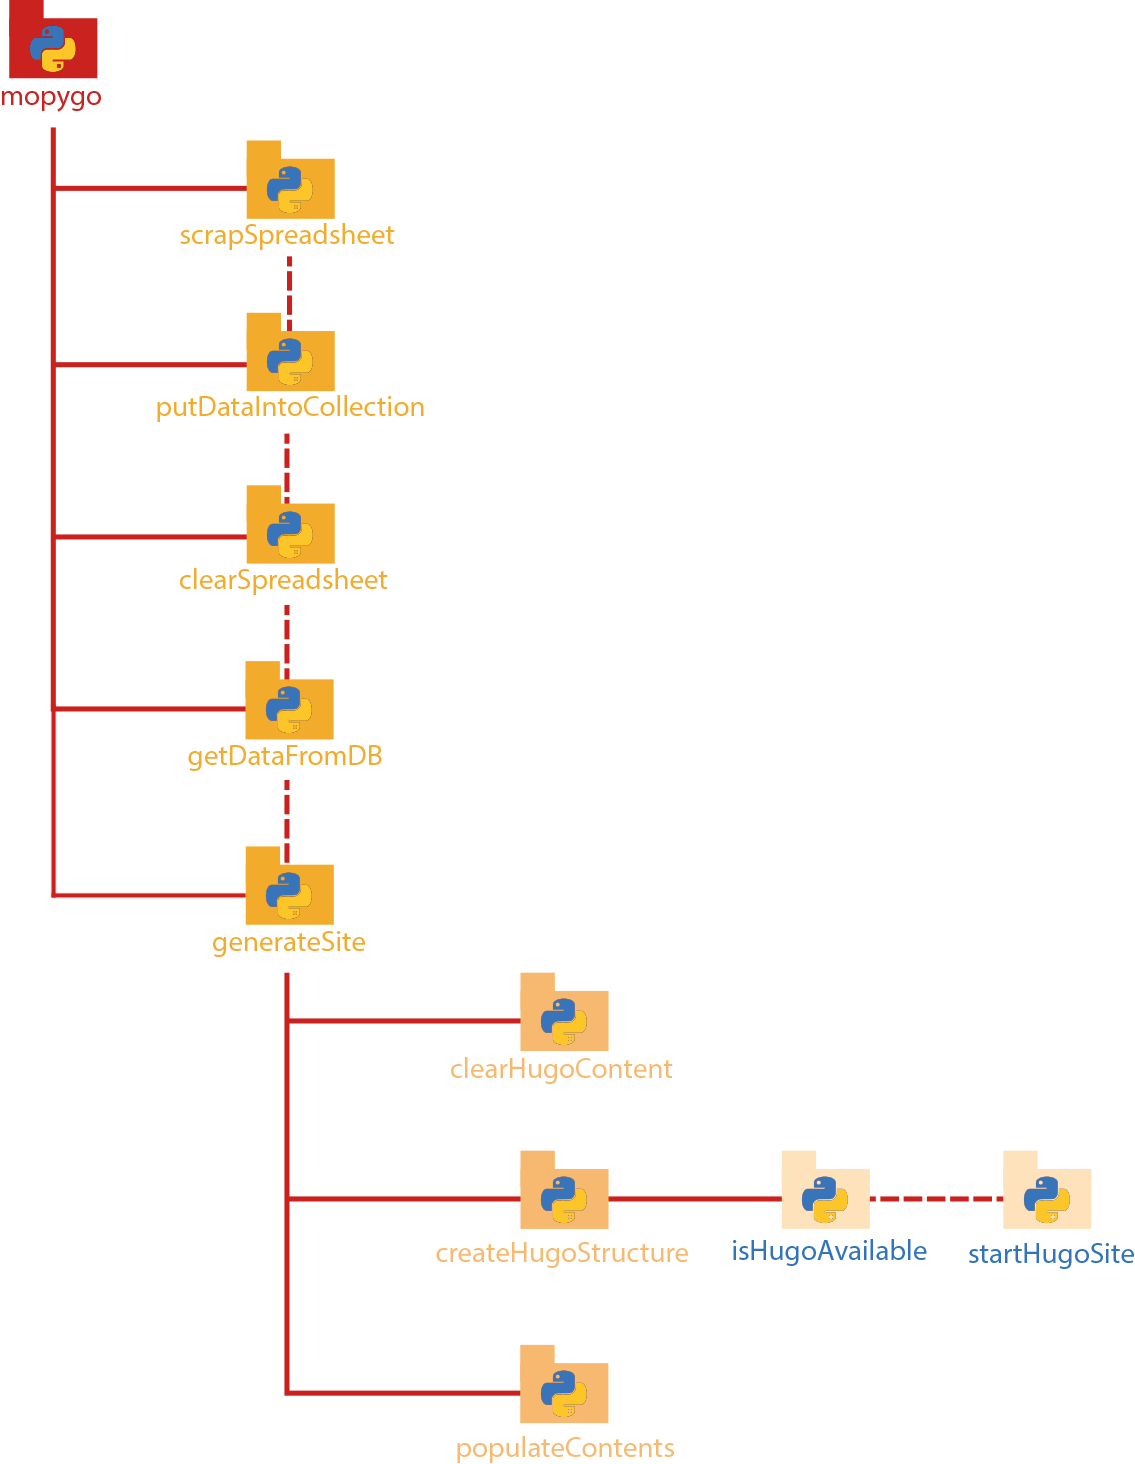
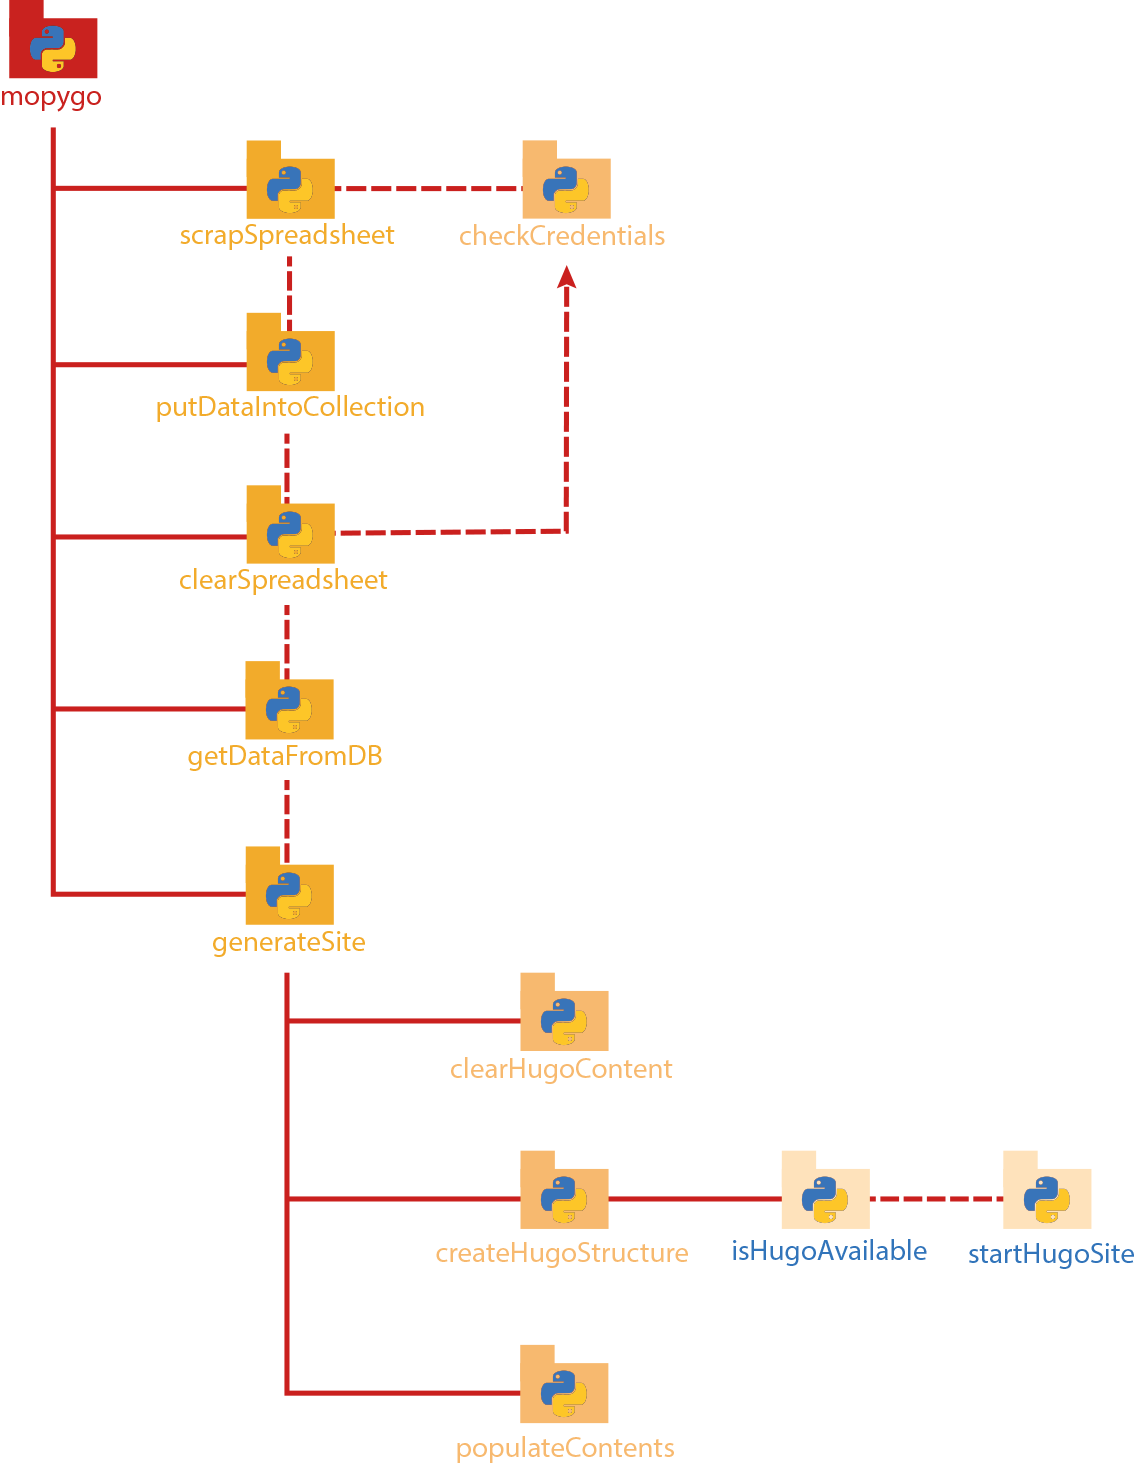
[:memo:] Readme informacion del proyecto

Changed region(s): [[0.3084, 0.0922, 0.5859, 0.3689], [0.0308, 0.584, 0.2159, 0.6148], [0.3084, 0.3381, 0.3392, 0.3689]]

diff --git a/docs/informacionProyecto.md b/docs/informacionProyecto.md
@@ -2,7 +2,30 @@
 ![](assets/logoMopygo.png)
 
 # Índice
-<!-- Poner índice -->
+- Introducción
+- Metodología
+- Analisis
+  - Primer diagrama general
+  - Posibles tecnologías
+- Diseño
+  - Diagrama de componenetes
+  - Esquema BBDD
+  - Futuras pruebas
+- Implementación
+  - Tecnologias utilizadas
+  - Herramientas utilizadas
+  - BackEnd 
+    - CRUD
+  - FrondEnd
+- Pruebas
+  - TDD
+  - CRUD
+- Comparación temporal 
+- Dificultades
+- Futuras mejoras
+- Bibliografía
+
+
 # Introducción
 
 En este proyecto tendremos que actualizar una web de una empresa de menus de restaurantes de lujo. La página web contine listas de cartas de restaurentes (ítems) que están en stock, en las cuales estas se clasifican en diferentes estilo de cocina.
@@ -19,7 +42,7 @@ Requisitos:
 - Aplicar el método SOLID.
 - Documentar el manual técnico que descrbe la arquitectura de la aplicación. 
 
-### Metodología
+# Metodología
 
 Desarrollo iterativo y creciente (o incremental) es un proceso de desarrollo de software creado en respuesta a las debilidades del modelo tradicional de cascada.
 
@@ -54,28 +77,54 @@ Esta metodología está formada por 5 etapas que son:
 ![](assets/principios_Metodologia_Scrum.png)
 
 Para finalizar podemos decir que Scrum es una metodología ágil que hace énfasis en el trabajo en equipo donde la claridad de los objetivos es crucial para avanzar hacia una versión cada vez mejor. Desde el punto de vista humano, favorece la motivación, la creatividad y el compromiso del equipo de trabajo. La claridad de los objetivos de cada una de las tareas programadas, así como el registro diario de las novedades, son factores que generan propuestas de avance hacia una versión mejorada. Estos factores, por supuesto, se reflejan positivamente en los niveles de producción de la empresa. Sin embargo el scrum no es muy efectivo si se hacen con grupos muy ampliados ya que se puede ir de las manos y tardar más de lo necesario. A eso, también, hay que añadirle que se tiene que trabajar con metas por días o semanales o mensuales y por etapas para poder llegar a los plazos y eso se necesita mucha organización. Asimismo es importante que las personas que hagan esta metodología tengan un gran nivel de cualificación para poder realizarla correctamente. En definitiva, el scrum si se hace bien es muy efectivo pero requiere un alto nivel de implicación.
+# Analisis
 
-### Analisis
-<!-- - Partes interesadas
-- Requisitos funcionales
-- Requisitos no funcionales -> RnF_XX
-- Diagnostico de casos de uso (UML) -->
-- Posibles tecnoloías 
-- Elección de tecnologías -> Matriz Requisitos/Tecnologías
+## Primer diagrama general
 
-### Diseño
-<!-- - Mapa conceptual proyecto -->
+Partimos de la base en la que hay un servidor. En ella esta constituida por una capa de datos, que en nuestro caso hemos usado el servicio de Mongo Atlas, la cual tuvimos que poblar con datos de ejemplo. Dentro del mismo servidor con ayuda de un script de Python nos conectamos a la base de datos con la libreria _PyMongo_. 
+
+Une vez sacado los datos entramos en la capa de negocio, la que encontramos otro script de Python que procesará los datos y escribirá archivos Markdown. 
+
+AL finalizar la escritura de los archivos Markdown, Hugo consumirá esos archivos para generar el sitio web. 
+
+Finalmente entramos en el entorno cliente donde encontramos una capa de presentación la cual está constituida por archivos HTML, CSS y JS (JavaScript). Gracias a ello el usuario final puede visualizar el contenido en su navegador 
 
 ![](assets/arquitectura.png)
-<!-- Explicarlo detalladamente -->
 
-# Esquema de BBDD
+## Posibles tecnologías
 
-Cada colección es un tipo de restaurante, dentro de ella está la listas de los restaurantes. En cada documento sigue una estructura con los datos del restaurantes como por ejemplo el nombre del restaurante, la ubicación, la capacidad del local.
+| Tecnologias | _workflow_ | BBDD | Generador web con MD |
+|-| - | - | - |
+| GoHugo | - | - | X |
+| MongoDB |  - | X | - |
+| GitHub |  X | - | - |
+
+# Diseño
+
+## Diagrama de componenetes
+
+![](assets/diagramaComponentes.png)
+
+Este proyecto se compone de un archivo principal llamado _mopygo_. En este se acccede a múltiples funciones que son llamadas a cada una de ellas (`scrapSpreadsheet`, `putDataIntoCollection`, `clearSpreadsheet`, `getDataFromDB`, `generateSite`).
+
+La función `scrapSpreadsheet` recoge los datos excritos en un excel de Google Drive el cual llama al procedimeinto `checkCredentials` que comprueba que las credenciales de google son validas. 
+
+La función `putDataIntoCollection` mete los datos en l base de datos. 
+
+El procedimiento `clearSpreadsheet`limpa el excel y accede al procedimiento `checkCredentials` que comprueba que las credenciales de google son validas.
+
+La función `getDataFromDB`saca los datos de la base de datos. 
+
+El procedimiento `generateSite` genera los Markdown para hugo haciendo uso de tres procedimientos llamados `clearHugoContent`(limpiar la carpeta de contenido Hugo), `createHugoStructure`(crea la estructura de directorio de hugo, para ello, comprueba si existe el comando de hugo (`isHugoAvailable`) y en el caso que exista lo ejecuta (`startHugoSite`)) y  `populateContents`(puebla la carpeta de contenidocon archivos Markdown).
+
+# Esquema BBDD
+
+El esquema de la base de datos es organizado de la siguiente forma, cada colección es un tipo de restaurante, dentro de ella está la listas de los restaurantes. En cada documento sigue una estructura con los datos del restaurantes como por ejemplo el nombre del restaurante, la ubicación, la capacidad del local.
 
 También tenemos una colección llamada `types` la cual contiene el nombre y la descripción del tipo de restaurante, el nombre hace referencia a una colección existente.
 
-```json
+###### Validación esquema
+```js
 {
   $jsonSchema: {
     bsonType: 'object',
@@ -130,27 +179,17 @@ También tenemos una colección llamada `types` la cual contiene el nombre y la 
 }
 
 ```
-
-- Futuras pruebas a realizar
-<!-- 
-expliacaión de cada caso test
-(habría que revisar los casos test)
-1. CRUD con Python
-2. I/O con Python
-3. I/O con Hugo
--->
-
-### Implementación 
-
-- Tecnologías utilizadas
+## Futuras pruebas
+# Implementación
+## Tecnologías utilizadas
 
 Las tecnologías utilizadas en MOPYGO son las siguientes:
-## GoHugo
+### GoHugo
 
 **GoHugo** es un framework para creación de sitios web de propósito general, además de ser generadores de sitios 
 estáticos. 
 
-## MongoDB
+### MongoDB
 
 El **MongoDB** es un sistema de base de datos NoSQL, orientado a documentos y de código abierto
 
@@ -159,73 +198,173 @@ El **MongoDB** es un sistema de base de datos NoSQL, orientado a documentos y de
 
 Las herramientas utilizadas en MOPYGO son las siguientes:
 
-## VsCode
-
-El **VsCode** es un editor de código fuente (IDE) utilizado para desarrollar el código fuente. El cual podemos 
-usar las erramientas como conventional commits, live Share, git graph, Python.
-
-## Git
-
-El **Git** es un software de control de versiones. En nuestro caso hemos utilizado Git como sistema de versionado
-de código para compartir y trabajar sobre nuestra aplicación y para mantener un registro de los cambios realizados.
-
-## Clockify
-
-El **Clockify** es una aplicación simple de seguimiento del tiempo y planilla de horarios que permiten tanto 
-al usuario como a un equipo de trabajorealizar el seguimiento de las horas trabajadas en los proyectos. 
-
-## GitHub
+### GitHub
 
 El **GitHub** es una forja para alojar proyectos utilizando el sistema de control de versiones Git. Lo hemos
 utilizado esta plataforma para almacenar nuestro proyecto en la nube y además hemos utilizado la rama de github
 pages para hostear nuestra web en la red.
 
-## Black 
+### Python
+
+Python es un lenguaje de programación interpretado cuya filosofía hace hincapié en la legibilidad de su código. Se trata de un lenguaje de programación multiparadigma, ya que soporta parcialmente la orientación a objetos, programación imperativa y, en menor medida, programación funcional.
+
+## Herramientas utilizadas
+Las herramientas utilizadas en MOPYGO son las siguientes:
+
+### VsCode
+
+El **VsCode** es un editor de código fuente (IDE) utilizado para desarrollar el código fuente. El cual podemos 
+usar las erramientas como conventional commits, live Share, git graph, Python.
+
+### Clockify
+
+El **Clockify** es una aplicación simple de seguimiento del tiempo y planilla de horarios que permiten tanto 
+al usuario como a un equipo de trabajorealizar el seguimiento de las horas trabajadas en los proyectos. 
+
+### Git
+
+El **Git** es un software de control de versiones. En nuestro caso hemos utilizado Git como sistema de versionado
+de código para compartir y trabajar sobre nuestra aplicación y para mantener un registro de los cambios realizados.
+
+### Black 
 _Black_ es un formateador obstinado que cumple con los requisitos impuestos en [PEP 8](https://www.python.org/dev/peps/pep-0008/). _Black_ reformatea archivos completos en su lugar. Las opciones de configuración de estilo están deliberadamente limitadas y rara vez se agregan. No tiene en cuenta el formato anterior.
 
-## Coverage 
+### Coverage 
 _Coverage_ es una herramienta para medir la cobertura de código de los programas Python. Supervisa su programa, observa qué partes del código se han ejecutado, luego analiza la fuente para identificar el código que podría haberse ejecutado pero no lo ha sido.
 
 La medición de cobertura se usa generalmente para medir la efectividad de las pruebas. Puede mostrar qué partes de su código están siendo ejercitadas por pruebas y cuáles no.
+## BackEnd 
 
-- BackEnd
+El backEnd son todas las tecnologías que se encuentran en la cara oculta al usuario, el servidor, en el que podemos encontrar (que esta explicado anteriormente):
+- [MongoAtlas](#MongoDB)
+- [Python](#Python)
+- [Hugo](#GoHugo)
+
+<!-- ## CRUD -->
+## FrontEnd
+
+Todas las tecnoloías que se encuentran a la vista del usuario, el cliente:
+- HTML
+- CSS
+- JS (Booststrap, jQuery, owl, masonry)
+# Pruebas
+## TDD
 <!--
-Base de datos en MongoAtlas (captura de pantalla?)
-Python (?)
-Hugo
+1. Coger los casos test de la carpeta /tests
+2. Poner el código, explicar el motivo de ese caso test
+3. Mostrar los resultados
 -->
+## CRUD
 
-- BBDD: CRUD (ejemplos + Ejemplos incorrecto ->)
-<!--
-1. hacer un ".insertOne()" bien hecho y mal hecho, poner captura del error
-2. hacer un ".find()" de lo insertado antes para mostrar que existe
-3. hacer un ".updateOne()" de lo insertado antes
-4. hacer un ".find()" otra vez para mostrar el "update"
-5. hacer un ".delete()" de lo insertado antes
-6. hacer un ".find()" de lo anterior para mostrar que se ha borrado
--->
-- FrontEnd
-<!--
-Capturas de pantalla:
-- página principal
-- formulario
-- single de algun restaurante
-(about no hace falta)
--->
+Para hacer CRUD usaremos los siguientes datos que encontramos a continuación. 
 
-### Pruebas <!-- pruebas realizadas con el TDD -->
-- Futuras pruebas a realizar
-- BackEnd (codigo + capturas de pantalla)
-- FrontEnd
+```js 
+{
+    "name": "Regina Caterers",
+    "location": "11 Avenue",
+    "price": 455,
+    "menu": [{
+        "menuName": "Uep,com anam!",
+        "first": "Patatas con chedar y beicon",
+        "second": "sandwich con pollo y lechuga",
+        "desert": "Tarta de manzana"
+    }, {
+        "menuName": "A la mierda la dieta",
+        "first": "Hot Dog",
+        "second": "Chuleton de 15kg",
+        "desert": "Tarta tres chocolates"
+    }],
+    "capacity": 2,
+    "image": "americanoPollo.jpeg"
+}
+```
 
-### Comparación temporal 
+1. Buscaremos la colección para comprobar que no existen esos datos.
+```
+db.american.find({name:"Regina Caterers"})
+```
+![](assets/find1.png)
+
+2. Insertar un docuemento con los datos de ejemplo con un `insertOne`.
+```
+db.american.insertOne({name:"Regina Caterers", ...})
+```
+![](assets/insertOne.png)
+
+3. Comprobar que se ha insertado el documento.
+```
+db.american.find({name:"Regina Caterers"})
+```
+![](assets/find2.png)
+
+4. Insertar docuemnto erroneo.
+``` 
+db.american.insertOne({name:"Regina Caterers", ...})
+```
+![](assets/Errorinsert.png)
+
+5. Actualizar el documento.
+```
+db.american.update({name:"Regina Caterers"}, {$set: {price:400}})
+```
+![](assets/update.png)
+
+6. Comprobar que el documento se han actuailzado.  
+```
+db.american.find({name:"Regina Caterers"})
+```
+![](assets/update_fin.png)
+
+7. Actualizar el documento de forma erronea. 
+```
+db.american.update({name:"Regina Caterers"}, {$set: {price:"400"}})
+```
+![](assets/update_error.png)
+
+8. Borrar el documento.
+```
+db.american.deleteOne({name:"Regina Caterers"})
+```
+![](assets/delete.png)
+
+9. Comprobar que se ha eliminado el documento.
+```
+db.american.find({name:"Regina Caterers"})
+```
+![](assets/find1.png)
+
+# Comparación temporal 
+
 - Estimación inicial por tases o detallado por tereas
 - Estimación real -> clockity
 
-![](assets/Clockify.jpg)
+En este proyecto hemos invertido un total de 159 horas en el cual por ambas partes de las personas implicadas en el proyecto (Noeila y Bruno) han hecho las mismas horas mutuamente.
+
+En el siguiente diagrama circular podemos observar las horas invertidas por etiqueta (módulos de clase), en él podemos observar que donde más horas se han invertido es en _Entornos de Desarrollo_ debido a la gran documentación que se ha solicitado.
+
+La segunda etiqueta con más horas invertidas es _Programación_ como era de esperar, debido a que el proyecto se centraba principalmente en la aprendizaje de Python.
+
+En tercer lugar tenemos la etiqueta _Plan proyecto_ la cual hace referencia a las horas invertidas en cómo se llevaría acabo el proyecto.
+
+Lás demás etiquetas, como _Lenguajes de marcas_, _Varios_ y _Bases de datos_ tienen menos horas invertidas debido a su baja complejidad en cuanto al proyecto.
+
+<figure>
+  <img src="assets/Clockify1.jpg">
+  <figcaption>
+    <h6><i>Diagrama circular de las horas invertidas</i></h6>
+  </figcaption>
+</figure>
+
+<figure>
+  <img src="assets/Summary.jpg">
+  <figcaption>
+    <h6><i>Resumen horas diarias del 18/11/21 a 19/12/21</i></h6>
+  </figcaption>
+</figure>
+
 - Comparación temporal
 
-### Dificultades 
+# Dificultades
 
 Las principales dificultades que hemos tenido han sido las siguientes:
 
@@ -235,22 +374,12 @@ En segundo lugar, Hugo nos ha estado dando problemas sobretodo en los dispositiv
 
 En tercer lugar, a medida que el proyecto iba avanzando se iba incrementando el contenido hasta llegar al punto de que en el ultimo momento ha habido modificaciones y documentacion que incrementar. 
 
-Finalmente, el tiempo ha sido el detonante de este proyecto pues a medida que iba avanzando el proyecto veiamos que era más grande de lo que nos imaginabamos. Además a eso hay que añadir que se añadian nuevas funcionalidades y modificaciones. 
+Finalmente, el tiempo ha sido el detonante de este proyecto pues a medida que iba avanzando el proyecto veiamos que era más grande de lo que nos imaginabamos. Además a eso hay que añadir que se añadian nuevas funcionalidades y modificaciones.
 
+# Futuras mejoras
 
+Una de las posibles mejoras que nos gustaría implementar en este proyecto debido a que no tuvimos el tiempo suficiente para invertirlo en ello sería mejorar y ampliar los apartados de la página web, como podría ser los formularios de ingreso de datos, de actualización de datos y de borrado de datos.
 
-### Bibliografía
+Actualmente solamente encontramos un formulario de ingreso de datos hecho con _Google Forms_ y nos gustaría retirarlo y sustituirlo por un formulario hecho por nosotros en HTML, además de implementar una _RestAPI_ con la que poder interaccionar con la base de datos.
 
-[Documento repte vevops CI/CD](https://docs.google.com/document/d/1qA-qOmxmJfzvVzHCmmv_wPQ2p5U8GA0Xu0w9rMpxbSM/edit?usp=sharing)
-
-Scrum:
-
-- [Scrum de “Wikipedia”](https://es.wikipedia.org/wiki/Scrum_(desarrollo_de_software))
-- [Metodolgia Scrum de “Softeng”](https://www.softeng.es/ca-es/empresa/metodologies-de-treball/metodologia-scrum.html)
-- [Scrum de “Atlassian”](https://www.atlassian.com/es/agile/scrum)
-- [Ventajas y desventajas Scrum de "Waredrew"](https://blog.wearedrew.co/ventajas-y-desventajas-de-la-metodologia-scrum)
-
-
-Hugo:
-
-- [Introducción de hugo](https://gohugo.io/getting-started/quick-start/)
+# Bibliografía
